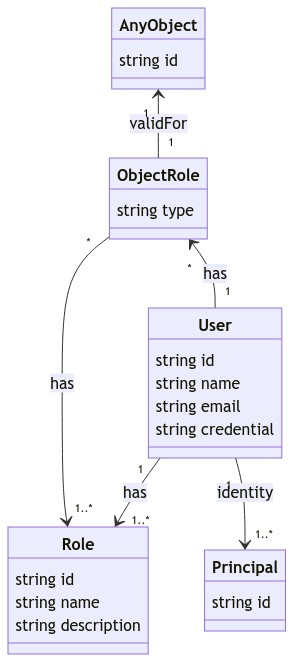
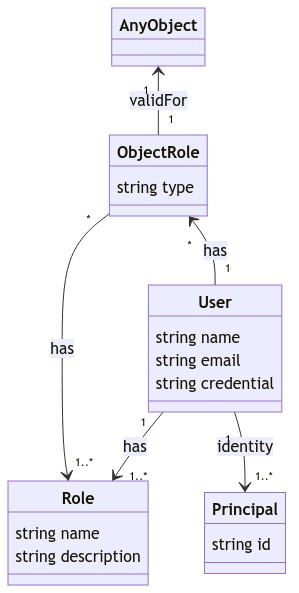
More on the model

diff --git a/documentation/models/users.md b/documentation/models/users.md
@@ -1,7 +1,6 @@
 ```mermaid
 classDiagram
     class User {
-        string id
         string name
         string email
         string credential
@@ -13,12 +12,10 @@ classDiagram
         string type
     }   
     class Role {
-        string id
         string name
         string description
     }
     class AnyObject {
-        string id
     }
     User "1" --> "1..*" Role : has
     User "1" --> "1..*" Principal : identity
